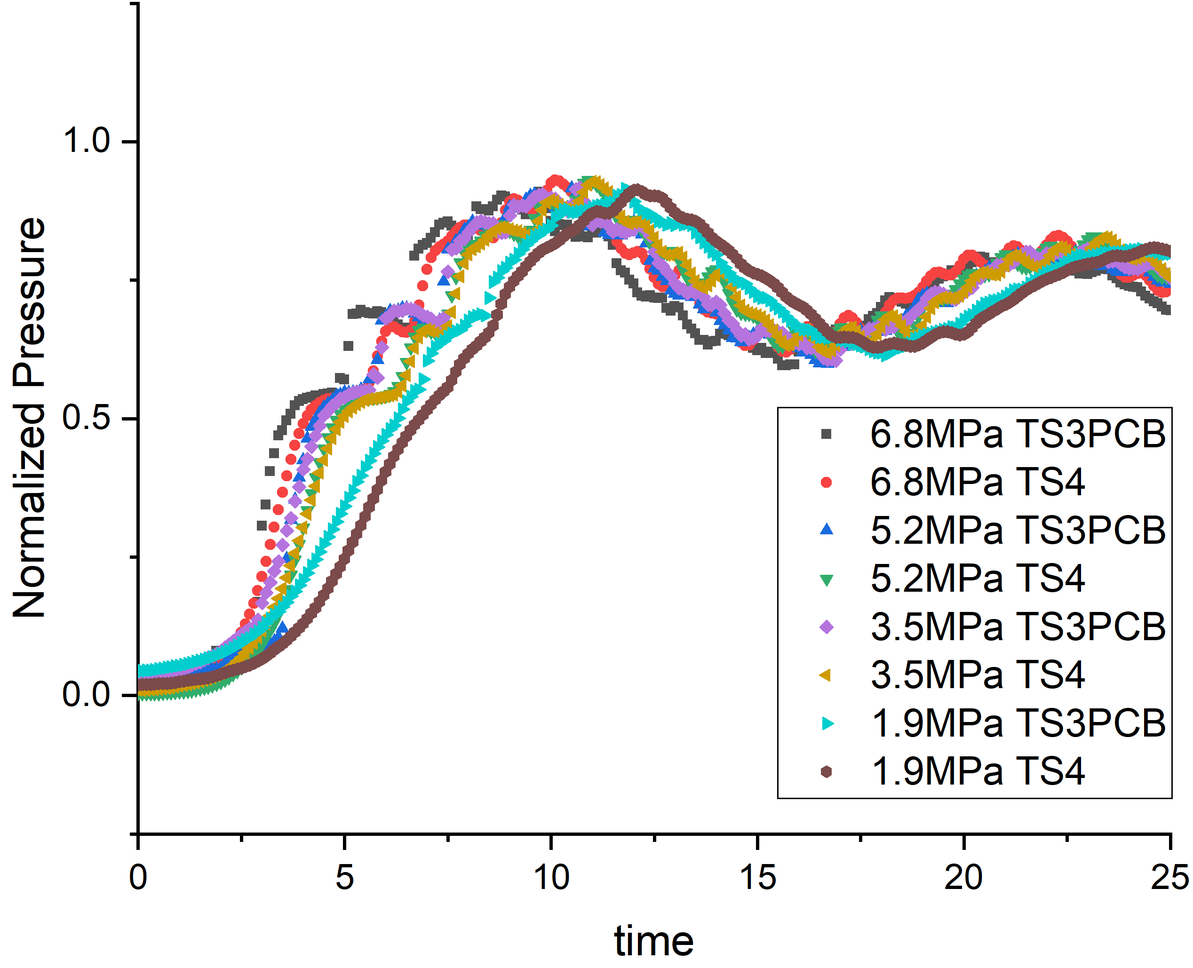
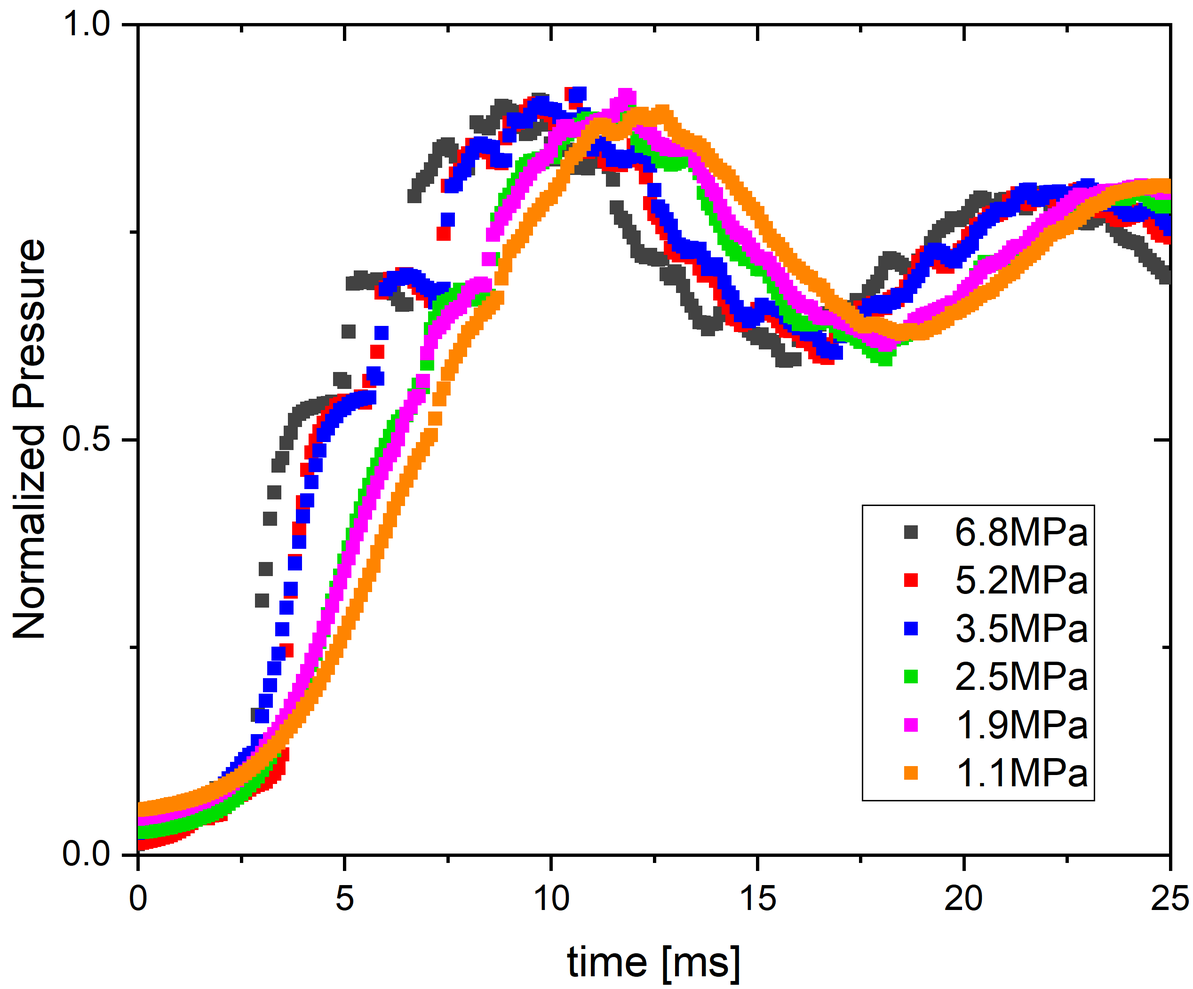
revised design and experiment sections, still need to do more revisions on experiment section; added some figures regarding the design and experiment setup; added the P&ID for the piston valve; still need to restructure and rewrite the results section -- AMW

diff --git a/design/design.tex b/design/design.tex
@@ -4,62 +4,98 @@
 % A valve for use in HENRI must be: fast-opening (less than \SI{5}{\milli\second}), predictable, reliable, reusable, fit in the physical confines of the HENRI system, and not contaminate or disrupt the helium-3. 
 % To meet these requirements, a pneumatic piston valve was designed and a prototype was built at OSU. The valve uses helium as its working fluid, to press a metal plug against a machined flange surface to seal the high pressure driver tank from the evacuated test section. The piston is mounted to the flange and is fed helium via an external manifold that is connected through the flange using tube fittings. The plug is held closed by the piston pressure in one chamber (the bottom chamber in this set-up), as well as the pressure in the driver tank. When the piston is desired to be opened, the helium is vented from the bottom chamber, then the top chamber is pressurized rapidly to actuate the piston and remove the plug from the exit of the driver tank. Using the helium of the HENRI system as the working gas for the piston provides some advantages: firstly, using only helium in the system reduces the chances of contamination, which is vitally important for a system that will be full of rare helium-3 gas, both for neutronics and for economics, and secondly, using high pressure gas allows for rapid actuation of the piston, which will compensate for the slower actuation when compared to the rupture disk.
 
-To meet the requirements outlined above, a hydraulic pneumatic piston valve was designed, built, and tested at OSU. The valve utilizes the helium from the high pressure driver tank in HENRI as its working fluid, which decreases the chances of contamination compared to using another working fluid, as well as keeping the required external attachments to a minimum to improve the modularity of the HENRI cartridge. The piston can fit inside the driver tank and attaches to the driver tank's flange. The flange is machined to accept a machined plug that attaches to the piston to create a tight seal. The valve can open rapidly by using the pressure of the helium in the driver tank and fully pulls away from the flange to provide obstruction-free flow into the test section.
+To meet the requirements outlined above, a hydraulic pneumatic piston valve was designed, built, and tested at OSU. The valve utilizes the helium from the high pressure driver tank in HENRI as its working fluid, which decreases the chances of contamination compared to using another working fluid, as well as keeping the required external attachments to a minimum to improve the modularity of the HENRI cartridge. The piston can fit inside the driver tank and attaches to the driver tank's flange. The flange is machined to accept a machined plug that attaches to the piston to create a tight seal. The valve can open rapidly by using the pressure of the helium in the driver tank and fully pulls away from the flange to provide obstruction-free flow into the test section. \Cref{fig:cad gen 1} shows CAD models of the piston valve, both a concept model and an as-built model. \Cref{fig:cad concept} shows the concept of the valve and how it attaches to the driver tank flange to sit inside the HENRI cartridge and \Cref{fig:cad lip} shows the as-built piston mount and flange. The sealing surface has a lip machined into it that helps the metal plug to seal against the surface of the flange.
 
 % obviously put a drawing and/or picture here of the og design -- also include a picture of the whole HENRI assembly with labels, so this all makes sense
+\begin{figure}[htbp]
+    \vspace{16pt}
+    \centering
+    \begin{subfigure}[t]{0.6\textwidth}
+        \centering
+        \includegraphics[width=0.9\textwidth]{design/photos/PistonValve_Gen1_CAD_labels.PNG}
+        \caption{CAD model of a piston valve concept attached to driver tank flange.}
+        \label{fig:cad concept}
+    \end{subfigure}
+    \hfill
+    \begin{subfigure}[t]{0.35\textwidth}
+        \centering
+        \includegraphics[width=0.9\textwidth]{design/photos/PistonMount_CAD_lip.PNG}
+        \caption{As-built CAD model of piston valve mount and driver tank flange, with sealing lip highlighted.}
+        \label{fig:cad lip}
+    \end{subfigure}
+    \caption{CAD models of the piston valve with important features highlighted.}
+    \label{fig:cad gen 1}
+    \vspace{16pt}
+\end{figure}
 
 % should we talk about opening speed characterization? if so, we need plots / tables of results and maybe some pics of the set up
 
-The first plug design was made with various materials, including aluminum, stainless steel, and a cobalt alloy, seen in \Cref{fig:metal plugs}. This plug is a simple design with a \SI{45}{\degree} cone that directly contacts the matching machined surface of the flange. A special coating was also tried on an aluminum plug[DO WE HAVE THE COATING INFO?] to improve the sealing ability of the plug on the flange. The initial mount design for the piston was made of a plate mounted to the piston body and three legs holding the plate onto the flange. The three-legged design allowed for easy routing of tubing for operating the piston, but also allowed for some movement of the mount when the piston was fully extended. This movement caused asymmetric wear on the plug, as seen in \Cref{fig:metal plugs}, leading to failure of the seal. Potentially due to this wear, the slow flow through the manifold, or the nature of metal-to-metal seals, a slight leak was observed from the driver tank into the test section before the piston valve opened fully [REF to plot here?].
+% The first plug design was made with various materials, including aluminum, stainless steel, and a cobalt alloy, seen in \Cref{fig:metal plugs}. This plug is a simple design with a \SI{45}{\degree} cone that directly contacts the matching machined surface of the flange. A special coating was also tried on an aluminum plug[DO WE HAVE THE COATING INFO?] to improve the sealing ability of the plug on the flange. The initial mount design for the piston was made of a plate mounted to the piston body and three legs holding the plate onto the flange. The three-legged design allowed for easy routing of tubing for operating the piston, but also allowed for some movement of the mount when the piston was fully extended. This movement caused asymmetric wear on the plug, as seen in \Cref{fig:metal plugs}, leading to failure of the seal. Potentially due to this wear, the slow flow through the manifold, or the nature of metal-to-metal seals, a slight leak was observed from the driver tank into the test section before the piston valve opened fully [REF to plot here?].
+
+The plug is machined with a slope of \SI{45}{\degree} to allow for maximum flow through the valve opening. The sealing surface of the flange is machined to match this slope, so when the piston presses the plug into the flange, the whole plug surface can be used to seal. \Cref{fig:plug} shows the drawing for the plug, as well as a plug as-built for the piston valve. The dimensions were chosen to enable the plug to attach to the piston, seal on the flange, and to seal against the flange with just the pressure in the driver tank pressing against the bottom surface. Sealing with only the pressure in the driver tank allows for the the piston chambers to be empty before the valve opens, which reduces resistance for the piston's movement. The top and bottom chamber can be seen in \Cref{fig:piston valve}, which shows the piston valve installed on its mount on the flange. The mount uses three (3) legs to hold the piston onto the flange, which allows for tubing to go from the connections on the flange to the connections on the piston.
+
 % need pics of all 1st gen plugs compared to each other w/ wear
 \begin{figure}[htbp]
     \vspace{16pt}
     \centering
-    %\includegraphics{}
-    \caption{Plugs used for metal-to-metal seal. Clockwise, starting from the top left: [plug materials in order]}
-    \label{fig:metal plugs}
+    \begin{subfigure}[t]{0.6\textwidth}
+        \centering
+        \includegraphics[width=0.9\textwidth]{design/photos/plug_gen1_drawing.PNG}
+        \caption{Drawing of plug for piston valve. Measurements are in inches.}
+        \label{fig:plug draw}
+    \end{subfigure}
+    \hfill
+    \begin{subfigure}[t]{0.35\textwidth}
+        \centering
+        \includegraphics[width=0.75\textwidth]{design/photos/cobalt_plug.png}
+        \caption{As built plug for piston valve.}
+        \label{fig:cobalt plug}
+    \end{subfigure}
+    %
+    \caption{Drawing and picture of plug used for piston valve.}
+    \label{fig:plug}
     \vspace{16pt}
 \end{figure}
 
-% discuss metal-to-metal seal problems at low pressure
-An additional requirement for the HENRI system from the TREAT team is that the valve can operate at low pressures in the driver tank, to broaden the range of experiments for which TREAT can use HENRI. The valve design uses both the pressure in the driver tank and the pressure in the piston to hold the plug closed, but if the pressure in either is low enough, there may not be enough sealing force to keep the helium from leaking. It was found with the metal-to-metal seal that it was difficult to keep the seal with a driver tank pressure less than \SI{500}{psia}[NEED TO CHECK, maybe add figure here, or ref results]. Low pressure sealing was difficult for this design, even with fresh plugs that had not been worn by the metal-to-metal contact.
+% discuss metal-to-metal seal problems at low pressure -- dont discuss this here?
+% An additional requirement for the HENRI system from the TREAT team is that the valve can operate at low pressures in the driver tank, to broaden the range of experiments for which TREAT can use HENRI. The valve design uses both the pressure in the driver tank and the pressure in the piston to hold the plug closed, but if the pressure in either is low enough, there may not be enough sealing force to keep the helium from leaking. It was found with the metal-to-metal seal that it was difficult to keep the seal with a driver tank pressure less than \SI{500}{psia}[NEED TO CHECK, maybe add figure here, or ref results]. Low pressure sealing was difficult for this design, even with fresh plugs that had not been worn by the metal-to-metal contact.
 
 % discuss design improvements in second iteration in both the mount and the o-ring
-\subsection{Design Iteration} \label{s:iteration}
-While the first plug and mount design proved the concept of a piston valve will work for the HENRI system, the seal durability was low and the piston opening was not as smooth or as fast as desired. To improve the valve, a new plug was designed using an o-ring to improve the sealing ability, and a new mount was designed to provide a more uniform and sturdy hold on the piston. The new assembly can be seen in \Cref{fig:piston assembly}. The new plug still uses a \SI{45}{\degree} slope to mate to the existing flange, but it does not go to a point like the previous design. It has a dovetail groove machined into it, as seen in \Cref{fig:Dovetail Groove}, to hold the o-ring in place such that the o-ring presses into the machined surface of the flange to strongly seal the driver tank from the test section. Two types of o-ring materials have been tested: an FFKM o-ring manufactured by Marko Rubber and a nitrile o-ring manufactured by Parker. The new mount was designed to work with the existing flange, so it uses the same bolt holes and needs to align the piston with the same sealing surface. The mount is comprised of three aluminum pieces: a circular plate mounted to the bottom of the piston, a circular plate to hold the mount on the flange, and a cylindrical support holding the two plates together and keeping the piston at the correct distance from the sealing surface. The cylindrical support has slots machined into it to allow for gas flow, tube fitting connections on the piston, and access to the bolts that mount the assembly to the flange.
+% \subsection{Design Iteration} \label{s:iteration}
+% While the first plug and mount design proved the concept of a piston valve will work for the HENRI system, the seal durability was low and the piston opening was not as smooth or as fast as desired. To improve the valve, a new plug was designed using an o-ring to improve the sealing ability, and a new mount was designed to provide a more uniform and sturdy hold on the piston. The new assembly can be seen in \Cref{fig:piston assembly}. The new plug still uses a \SI{45}{\degree} slope to mate to the existing flange, but it does not go to a point like the previous design. It has a dovetail groove machined into it, as seen in \Cref{fig:Dovetail Groove}, to hold the o-ring in place such that the o-ring presses into the machined surface of the flange to strongly seal the driver tank from the test section. Two types of o-ring materials have been tested: an FFKM o-ring manufactured by Marko Rubber and a nitrile o-ring manufactured by Parker. The new mount was designed to work with the existing flange, so it uses the same bolt holes and needs to align the piston with the same sealing surface. The mount is comprised of three aluminum pieces: a circular plate mounted to the bottom of the piston, a circular plate to hold the mount on the flange, and a cylindrical support holding the two plates together and keeping the piston at the correct distance from the sealing surface. The cylindrical support has slots machined into it to allow for gas flow, tube fitting connections on the piston, and access to the bolts that mount the assembly to the flange.
 
 % maybe include a table with serial numbers for o-rings?
 
 % need images / diagrams of 2nd gen plug and mount system
 %
-\begin{figure}[htbp]
-    \vspace{16pt}
-    \centering
-    \includegraphics[height=2.625in, width=3.5in,angle=270]{experiment/photos/Piston_Assembly.jpg} % for some reason, overleaf rotates this and it looks correct in overleaf, but it is not in a downloaded pdf -- this needs to be rotated to be correct in pdf -- you can look at it by downloading the pdf or changing the viewer to 'native' in the menu, instead of 'built-in'
-    \caption{Piston assembled with second generation mount on flange.}
-    \label{fig:piston assembly}
-    \vspace{16pt}
-\end{figure}
+% \begin{figure}[htbp]
+%     \vspace{16pt}
+%     \centering
+%     \includegraphics[height=2.625in, width=3.5in,angle=270]{experiment/photos/Piston_Assembly.jpg} % for some reason, overleaf rotates this and it looks correct in overleaf, but it is not in a downloaded pdf -- this needs to be rotated to be correct in pdf -- you can look at it by downloading the pdf or changing the viewer to 'native' in the menu, instead of 'built-in'
+%     \caption{Piston assembled with second generation mount on flange.}
+%     \label{fig:piston assembly}
+%     \vspace{16pt}
+% \end{figure}
 %
 
 
 % dovetail
 
-\begin{figure}[htbp]
-    \vspace{16pt}
-    \centering
-    \includegraphics[width=4.032in]{design/photos/dovetail.JPG}
-    \caption{Cutaway view of the second generation plug, with dovetail groove for o-ring. Measurements are in inches.}
-    \label{fig:Dovetail Groove}
-    \vspace{16pt}
-\end{figure}
+% \begin{figure}[htbp]
+%     \vspace{16pt}
+%     \centering
+%     \includegraphics[width=4.032in]{design/photos/dovetail.JPG}
+%     \caption{Cutaway view of the second generation plug, with dovetail groove for o-ring. Measurements are in inches.}
+%     \label{fig:Dovetail Groove}
+%     \vspace{16pt}
+% \end{figure}
 
 
 
 
 % discuss future design improvements that have not yet been implemented -- new driver tank, proposed improvements to flange / piston pressure lines, etc.
-\subsection{Future Improvements} \label{s:improvements}
-Going forward, there is still work to be completed in the design process. Firstly, the HENRI prototype will need to be fitted with a driver tank that is more representative of the final HENRI system. This driver tank has been designed and fabricated, however the flange has not been machined to accept the piston valve. Also, the o-ring durability must continue to be tested, as o-rings have broken during testing at OSU. The exact cause of the o-ring failure has yet to be determined, but a testing campaign is underway to investigate the problem further.
+% \subsection{Future Improvements} \label{s:improvements}
+% Going forward, there is still work to be completed in the design process. Firstly, the HENRI prototype will need to be fitted with a driver tank that is more representative of the final HENRI system. This driver tank has been designed and fabricated, however the flange has not been machined to accept the piston valve. Also, the o-ring durability must continue to be tested, as o-rings have broken during testing at OSU. The exact cause of the o-ring failure has yet to be determined, but a testing campaign is underway to investigate the problem further.
 
 % o-ring failure pics -- do we want these here? they take up a lot of space and we might not want to talk too much about the o-ring failures. Maybe just have one of the two figs?
 

diff --git a/experiment/experiment.tex b/experiment/experiment.tex
@@ -1,6 +1,6 @@
 \section{Experimental Facility and Methodology} \label{s:experiment}
 
-The experiments for the piston valve were performed using much of the facility and procedure used for the rupture disk tests. This section will describe the experimental facility, highlighting the modifications from the rupture disk experiments, and the methodology used to test the piston valve.
+This section will describe the experimental facility, highlighting the modifications from the rupture disk experiments, and the methodology used to test the piston valve.
 
 % talk about basic methodology of experiments and testing, introduce the structure of the section
 
@@ -9,20 +9,32 @@ The experiments for the piston valve were performed using much of the facility a
 \subsection{Experimental Facility} \label{s:facility}
 
 % P&ID, photos, etc. of facility -- highlight differences between burst disk and piston
-[ADD stuff about physical constraints from TREAT?]The main facility, seen in \Cref{fig:HENRI Facility}, is set up similarly to a shock tube, with a driver tank on the floor, an intermediate tube section, a test section, and a reflector section. The whole facility is upside-down to the HENRI facility's orientation in the TREAT core. In the reactor, the driver tank will be above the core with the test section in the fuel. The reflector section will extend past the fuel to provide space for the helium-3 collision effects outside of the active region in the core. The intermediate section allows for the driver tank to be positioned above the reactor core while also decreasing the total required volume of helium-3 for the HENRI system. The facility is made using 304 stainless steel, with the test section and reflector being $1\frac{1}{2}$ inch schedule 40 NPS pipe; the intermediate section being $1\frac{1}{4}$ inch tubing with $0.125$ inch wall thickness; and the driver tank being 6 inch schedule 40 NPS pipe. [VOLUMES and LENGTHS?] The piston valve is attached to the top flange of the driver tank and hangs inside.
+The main facility, seen in \Cref{fig:HENRI Facility}, is set up similarly to a shock tube, with a driver tank on the floor, an intermediate tube section, a test section, and a reflector section. The whole facility is upside-down to the HENRI cartridge orientation in the TREAT core. In the reactor, the driver tank will be above the core with the test section in the fuel. The reflector section will extend past the fuel to provide space for the gas reflection effects outside of the active region in the core. The intermediate section allows for the driver tank to be positioned above the reactor core while also decreasing the total required volume of helium-3 for the HENRI system. The facility is made using 304 stainless steel. The test section and reflector are pipe with a \SI{4.826}{\centi\meter} outer diameter and \SI{0.368}{\centi\meter} wall thickness (1.5 inch schedule 40 NPS); the intermediate section is \SI{3.175}{\centi\meter} (1.25 inch) outer diameter tubing with \SI{0.3175}{\centi\meter} ($0.125$ inch) wall thickness; and the driver tank is pipe with a \SI{16.8275}{\centi\meter} outer diameter and \SI{0.7112}{\centi\meter} wall thickness (6 inch schedule 40 NPS). The piston valve is attached to the top flange of the driver tank and hangs inside.
 
 %
 \begin{figure}[htbp]
     \vspace{16pt}
     \centering
-    \includegraphics[width=3.024in, height=4.032in]{experiment/photos/Out_of_Pile_Experiment_Setup.jpg}
-    \caption{HENRI Facility.}
-    \label{fig:HENRI Facility}
+    \begin{subfigure}[t]{0.6\textwidth}
+        \centering
+        \includegraphics[width=2in]{experiment/photos/HENRI_labels.png}
+        \caption{HENRI out-of-pile experimental facility.}
+        \label{fig:HENRI Facility}
+    \end{subfigure}
+    \hfill
+    \begin{subfigure}[t]{0.35\textwidth}
+        \centering
+        \includegraphics[width=0.9\textwidth]{design/photos/piston_mount_chambers.png}
+        \caption{Piston valve attached to driver tank flange with mount, used for seal durability testing.}
+        \label{fig:piston valve}
+    \end{subfigure}
+    \caption{HENRI experimental facility for piston valve testing.}
+    \label{fig:facility}
     \vspace{16pt}
 \end{figure}
 %
 
-The facility uses 13 pressure transducers and 1 thermocouple. The pressure transducers are one of two main types: Omega PX459 or PCB 113B24. All of the Omega pressure transducers are 0-1500 psia, except for two: a 0-3500 psia transducer used on the driver tank, and a 0-15 psia transducer used for the vacuum line. The Omega pressure transducers output a current from 4-\SI{20}{\milli\amp}, which is converted to voltage using a \SI{250}{\ohm} shunt resistor. The PCB transducers output a signal that is sent through a PCB Model 482C signal conditioner before being output to the voltage card. The data acquisition system uses a National Instruments (NI) PXIe-1085 chassis with a NI PXIe-8135 controller, a NI PXIe-4303 voltage input card for reading the instrumentation, and a NI PXI-6515 digital output card for controlling the solenoid valves. The manifold of miniature solenoid valves used for controlling the piston valve can be seen in \Cref{fig:sv manifold}. These solenoid valves are Parker Series 9 Miniature Calibrant Valve 009-0172-900. This particular valve was selected for its small form factor, high pressure rating, and low leak rate. [TABLE?]
+The facility uses 13 pressure transducers and 1 thermocouple. The pressure transducers are one of two main types: Omega PX459 or PCB 113B24. All of the Omega pressure transducers are 0-1500 psia, except for two: a 0-3500 psia transducer used on the driver tank, and a 0-15 psia transducer used for the vacuum line. The Omega pressure transducers output a current from 4-\SI{20}{\milli\amp}, which is converted to voltage using a \SI{250}{\ohm} shunt resistor. The PCB transducers output a signal that is sent through a PCB Model 482C signal conditioner before being output to the voltage card. The data acquisition system uses a National Instruments (NI) PXIe-1085 chassis with a NI PXIe-8135 controller, a NI PXIe-4303 voltage input card for reading the instrumentation, and a NI PXI-6515 digital output card for controlling the solenoid valves. A piping and instrumentation diagram (P\&ID) for operating the piston valve can be seen in \Cref{fig:sv pid}. There is a manifold of four (4) solenoid valves used to operate the piston. SV-PI2 and SV-PI4 open to fill the top and bottom chamber, respectively; and SV-PI1 and SV-PI3 open to vent the top and bottom chamber, respectively. These solenoid valves are Parker Series 9 Miniature Calibrant Valve 009-0172-900. This particular valve was selected for its small form factor, high pressure rating, and low leak rate.
 
 % %
 % \begin{figure}[htbp]
@@ -40,9 +52,9 @@ The facility uses 13 pressure transducers and 1 thermocouple. The pressure trans
 \begin{figure}[htbp]
     \vspace{16pt}
     \centering
-    \includegraphics[width=4.032in, height=3.024in]{experiment/photos/SV_manifold.jpg}
-    \caption{Miniature solenoid valve manifold.}
-    \label{fig:sv manifold}
+    \includegraphics[width=0.6\textwidth]{experiment/photos/HENRI_valve_PID.PNG}
+    \caption{Piping and instrumentation diagram (P\&ID) for piston valve operation.}
+    \label{fig:sv pid}
     \vspace{16pt}
 \end{figure}
 %

diff --git a/results/results.tex b/results/results.tex
@@ -44,24 +44,29 @@ The piston valve's operation at a wide range of pressure must be characterized a
     \vspace{16pt}
     \centering
     \begin{subfigure}{0.49\textwidth}
+        \centering
         \includegraphics[width=\textwidth]{results/plots/270psi_MPa_25.png}
         \caption{\SI{1724}{\kilo\pascal} (\SI{250}{psi})}
         \label{fig:piston multi 250}
     \end{subfigure}
     \hfill
     \begin{subfigure}{0.49\textwidth}
+        \centering
         \includegraphics[width=\textwidth]{results/plots/500psi_Mpa_25.png}
         \caption{\SI{3448}{\kilo\pascal} (\SI{500}{psi})}
         \label{fig:piston multi 500}
     \end{subfigure}
     
+    \vspace{8pt}
     \begin{subfigure}{0.49\textwidth}
+        \centering
         \includegraphics[width=\textwidth]{results/plots/750psi_Mpa_25.png}
         \caption{\SI{5172}{\kilo\pascal} (\SI{750}{psi})}
         \label{fig:piston multi 750}
     \end{subfigure}
     \hfill
     \begin{subfigure}{0.49\textwidth}
+        \centering
         \includegraphics[width=\textwidth]{results/plots/1000psi_Mpa_25.png}
         \caption{\SI{6896}{\kilo\pascal} (\SI{1000}{psi})}
         \label{fig:piston multi 1000}

diff --git a/intro/tab/ValveCompTab.tex b/intro/tab/ValveCompTab.tex
@@ -4,7 +4,7 @@
   \caption{Comparison of valves to ideal requirements.}
     \begin{tabular}{cccccccc}
     \toprule
-    \textbf{Valve} & \textbf{Speed} & \textbf{Fully Open} & \textbf{Repeatable} & \textbf{Durable} & \textbf{Precise} & \textbf{Size} & \textbf{Pressure} \\
+    \textbf{Valve} & \textbf{Speed} & \textbf{Fully Open} & \textbf{Repeatable} & \textbf{Reusable} & \textbf{Precise} & \textbf{Size} & \textbf{Pressure} \\
     \midrule
     \rowcolor[rgb]{ .851,  .851,  .851} Rupture Disk & \cmark   & \cmark   & \cmark   & \xmark    & \xmark    & \cmark   & \cmark \\
     Ball Valve & \xmark    & \xmark    & \cmark   & \cmark   & \cmark   & \xmark    & \cmark \\

diff --git a/main.tex b/main.tex
@@ -45,6 +45,7 @@
 \usepackage{booktabs} % table stuff
 \usepackage{setspace} % more space
 \usepackage{subcaption} % subfigure stuff
+\usepackage{svg} % svg format figure stuff
 \usepackage{hyperref} % makes refs good
 \usepackage[final]{varioref} % makes refs even gooder
 \usepackage{cleveref} % makes refs gooder
